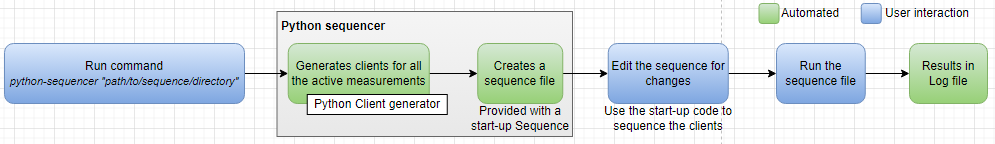
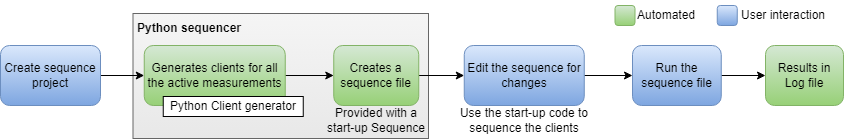
doc: resolve doc suggestions and change block diagram

diff --git a/README.md b/README.md
@@ -41,24 +41,23 @@ python-sequencer /path/to/sequence/directory
 
 - **/path/to/sequence/directory**: Specify the path to the directory where the generated clients and sequence files will be stored. Ensure that the directory exists and has write permissions.
 
-### Step 3: Creating clients
+### Step 3: Create the client
 
 When you run the command:
 
-1. The tool will find all the registered measurement plug-ins.
-2. It will create a client for each measurement plug-in in the specified directory.
-3. It then creates a `sequence.py` file that contains the startup sequence code for the generated clients.
+1. The tool discovers all the registered measurement plug-ins.
+2. Creates clients for each measurement plug-in and a `sequence.py` file that contains the startup sequence code that uses the clients.
 
-### Step 4: Generated Sequence File
+### Step 4: Review the Generated Sequence File
 
 The generated `sequence.py` file contains the following:
 
 - `pin_map_methods`: A list of methods used to register the pin map for the measurement plug-ins, which users can update by modifying the `pin_map_path` variable.
-- A loop that registers the pinmap for each method.
+- A loop that registers the pin map for each method.
 
 **Note:** Users can modify this file to define their own sequences for the generated clients.
 
-### Step 5: Logging Setup
+### Step 5: Set Up Logging
 
 - A custom logger (`sequence_logger`) is provided as a package to log the execution results of the sequence.
 - Make sure to install this logging package in your sequence directory by using
@@ -69,31 +68,28 @@ The generated `sequence.py` file contains the following:
 
 - Once installed, the logging package will initialize the logging configuration for the script, helping capture logs from various operations throughout the sequence.
 
-```text
-Note: Before creating clients, the tool automatically handles directory cleanup by,
-    - Clearing the content of the `__init__.py` file (if it exists).
-    - Removing all generated clients.
-    - Deleting the `sequence.py` file (if present).
-```
-
 ### Step 6: Execute the Sequence
 
 - Run the `sequence.py` file to execute the sequence.
-- After execution, you can find the results along with the input configurations in the log file which will be saved in the current working directory as a CSV file.
+- The log will be saved as a CSV file in the current working directory.
+
+```text
+Note: Before creating clients, the tool automatically handles directory cleanup by,
+
+- Clearing the content of the `__init__.py` file (if it exists).
+- Removing all generated clients.
+- Deleting the `sequence.py` file (if present).
+```
 
 ### Example Usage
 
-- `python-sequencer /my/sequence/directory`
-    This command generates new clients and a sequence file in the `/my/sequence/directory` directory.
+```bash
+python-sequencer /my/sequence/directory
+```
 
-## Merits
+This command generates new clients and a sequence file in the `/my/sequence/directory` directory.
 
-- **Client Creation**: Automatically generates clients for all active measurements.
-- **Startup Code Generation**: Provides initial code in the `sequence.py` file for sequence execution, making customization easier.
-- **Logging**: Logs sequencer operations, including arguments and results, to a CSV file, enhancing tracking and debugging capabilities.
-- **Clean-up**: When an existing sequence directory is given, the `clients` module and `sequence.py` file will be cleaned up and it starts generating newly.
-
-## Limitations
+## Disclaimer
 
 - **No Dependency Management**: Dependency management for the sequence directory is not yet implemented.
-  - No `pyproject.toml` file is generated with the start-up code. Instead, the user needs to install the packages *[(logger and measurement-service)](#dependencies)* manually(`pip install "path/to/wheel/package"`) to their respective sequence directory.
+  - No `pyproject.toml` file is generated with the start-up code. Instead, the user needs to install the packages *[(logger and measurement-service)](#dependencies)* manually.

diff --git a/ClientIntegration.md b/ClientIntegration.md
@@ -1,4 +1,6 @@
-# Integrating Measurement Plug-Ins with Custom applications
+# Integrating Measurement Plug-Ins with User applications
+
+You can integrate measurement plug-ins to call and execute them from user application. In this document, we will focus specifically on a **sequencer**.
 
 ## Scenario: Sequencing Measurement Plug-Ins
 
@@ -6,11 +8,9 @@ Imagine you have a custom application or sequencer designed to execute measureme
 
 ## The Solution: Measurement Plug-In Clients
 
-Measurement plug-in clients allow you to run measurements directly from a simple Python script, simplifying the process of invoking measurements from any user application. This approach is particularly useful for sequencing multiple measurement plug-ins. [{Know more about Measurement Plug-In Client}.]({link_to_measurement_plugin_client})
+Measurement plug-in clients allow you to run measurements directly from a Python script, simplifying the process of invoking measurements from user application. [{Know more about Measurement Plug-In Client}.]({link_to_measurement_plugin_client})
 
-### Sequencing workflow using the Measurement Plug-In Client Generator
-
-The following visual illustrates how the Measurement Plug-In Client Generator facilitates the sequencing of measurement plug-ins.
+The following visual illustrates how the Measurement Plug-In Client Generator can be used for calling the measurement plug-ins in user application.
 
 ![Measurement-clients-workflow](/docs/images/measurement-clients-workflow.PNG)
 
@@ -19,7 +19,7 @@ The steps for integrating the Measurement Plug-In Client Generator with a user a
 ## Challenges Addressed by the Measurement Plug-In Client Generator
 
 - The Measurement Plug-In Client Generator integrates seamlessly with custom applications and can be tailored to meet specific requirements.
-- It enables customizable sequence logic with user-defined inputs, offering flexibility in the measurement execution.
+- As the measure call is simple using measurement plug-in clients, it can be utilized to implement customizable sequence logic with user-defined inputs.
 
 ## Steps to Integrate the Measurement Plug-In Client
 
@@ -47,6 +47,6 @@ The steps for integrating the Measurement Plug-In Client Generator with a user a
 
   **Note:** Encapsulate the call inside a `try...catch` block to handle run-time exceptions.
 
-## Example for Integrating the Measurement Plug-In Client Generator in a Custom Sequencer
+## Example for Integrating the Measurement Plug-In Client Generator in a User Application
 
 For a practical implementation of this workflow, refer to our example [Sequencer tool](/README.md).
